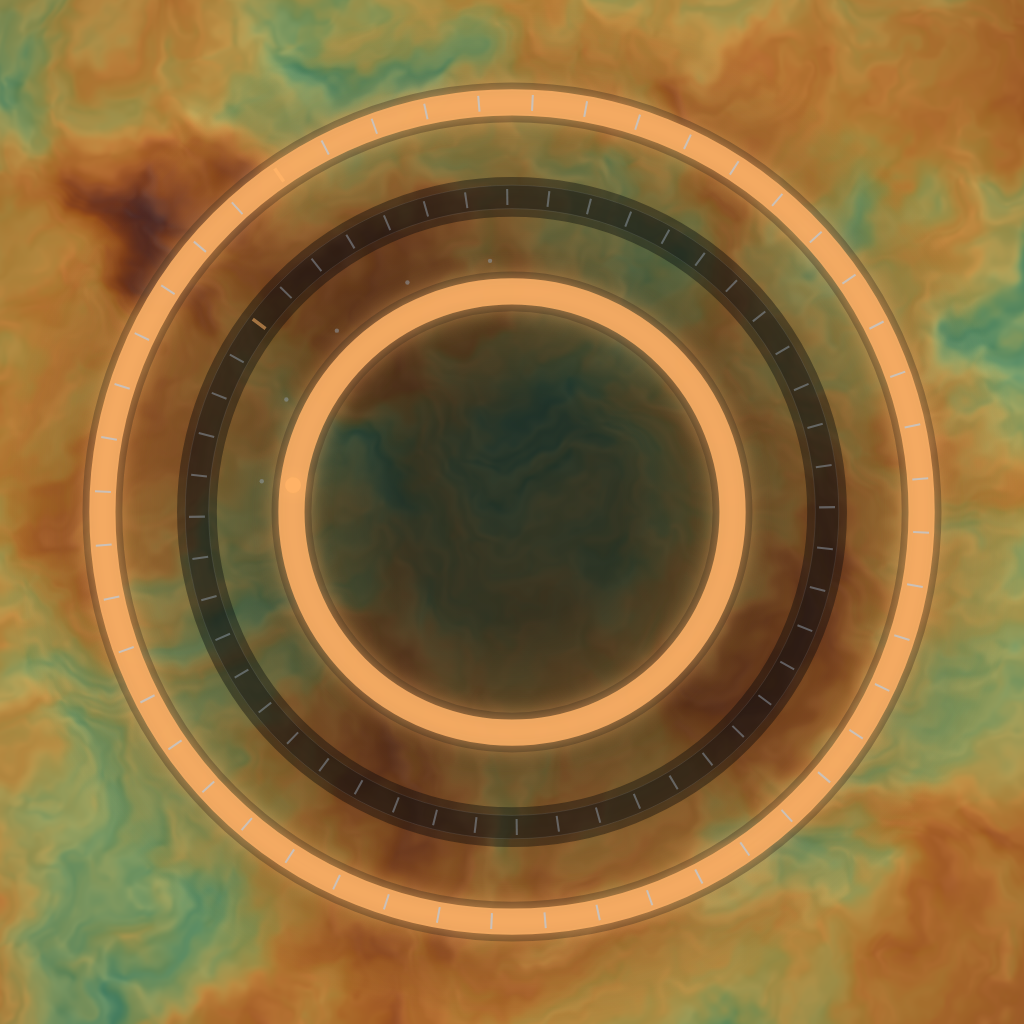
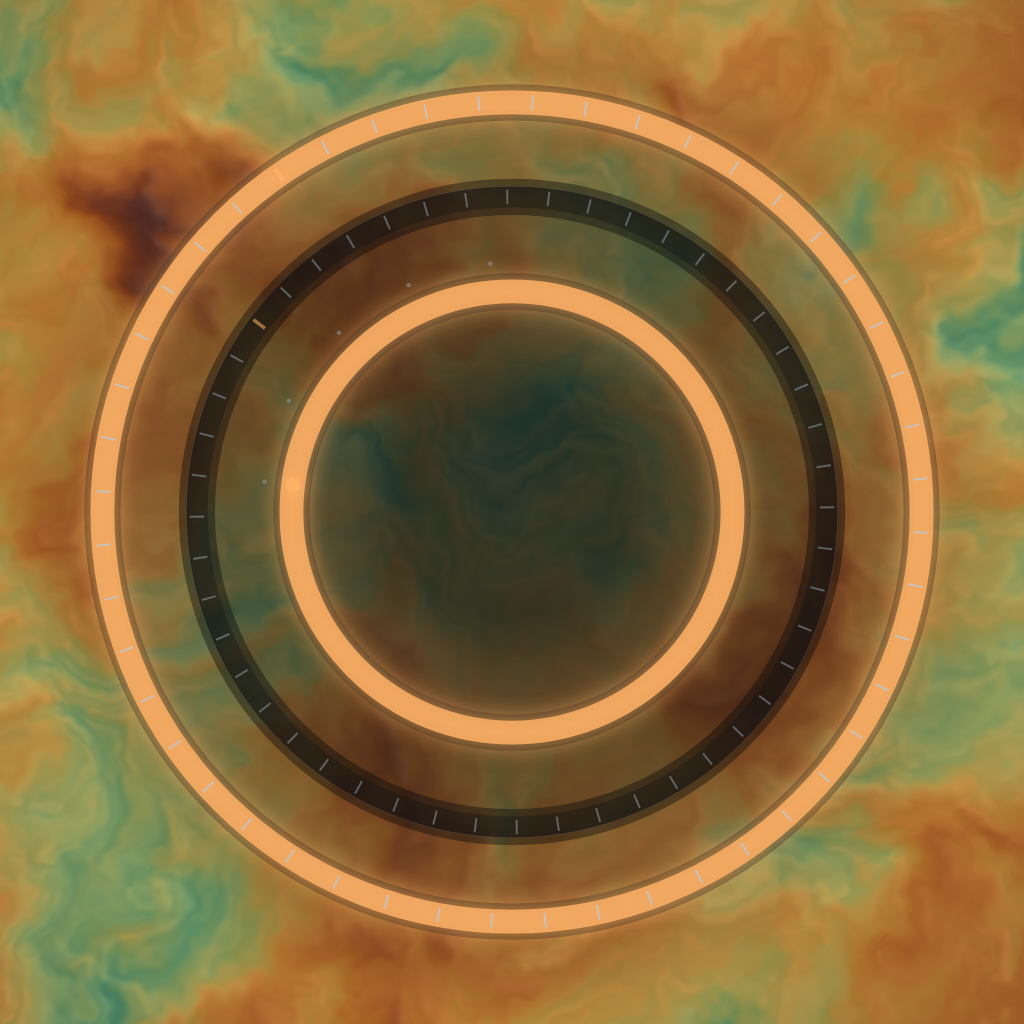
Swipe to change aesthetic, temp mode labels, bigger arcs, drawn hit zones
Horizontal background swipe steps aesthetics (left = next, wraps);
dot strip stays as the visible state. TEMP aesthetic.mode label under
the dots for per-mode feedback. Radius band now 0.65-1.25 (default
0.95, storage key v4). Each dial's whole hit band is drawn: gradient
deepens toward the arc, fades inward, inner hairline removed; glow
tints the full zone.

diff --git a/js/dials.js b/js/dials.js
@@ -69,7 +69,7 @@ export class DialCluster {
 
   radius(i) { return this.rB * this.relRadii[i]; }
   ringWidth() {
-    const w = clamp(this.rB * 0.055, 10, 18);
+    const w = clamp(this.rB * 0.05, 12, 22);
     return this.bare ? w * 1.35 : w;
   }
   // Fixed-pixel details (tick strokes, blur radii) scale with cluster size so
@@ -157,9 +157,46 @@ export class DialCluster {
     ctx.arc(x, y, scrimR, 0, TAU);
     ctx.fill();
 
+    this.drawZone(ctx, 0, this.a.glow);
+    this.drawZone(ctx, 1, this.b.glow);
+    this.drawZone(ctx, 2, this.c.glow);
     this.drawContinuousRing(ctx, 0, this.a);
     this.drawContinuousRing(ctx, 1, this.b);
     this.drawSelectorRing(ctx);
+  }
+
+  // The whole hit band is drawn, not just the arc: a transparent gradient
+  // deepens toward the arc at the band's outer edge and fades to nothing at
+  // the inner boundary, so the touch area visibly belongs to the dial.
+  drawZone(ctx, i, glow) {
+    const { x, y } = this.pivot;
+    const w = this.ringWidth();
+    const rOut = this.radius(i) + w / 2;
+    const rIn = i < 2
+      ? this.radius(i + 1) + w / 2
+      : Math.max(rOut - (this.radius(1) - this.radius(2)), rOut * 0.3);
+
+    const g = ctx.createRadialGradient(x, y, rIn, x, y, rOut);
+    g.addColorStop(0, 'rgba(10,13,16,0)');
+    g.addColorStop(0.7, 'rgba(10,13,16,0.16)');
+    g.addColorStop(1, 'rgba(10,13,16,0.34)');
+    ctx.beginPath();
+    ctx.arc(x, y, rOut, 0, TAU);
+    ctx.arc(x, y, rIn, 0, TAU, true);
+    ctx.fillStyle = g;
+    ctx.fill();
+
+    if (glow > 0.02) {
+      const ga = ctx.createRadialGradient(x, y, rIn, x, y, rOut);
+      ga.addColorStop(0, this.col(0));
+      ga.addColorStop(0.7, this.col(0.10 * glow));
+      ga.addColorStop(1, this.col(0.22 * glow));
+      ctx.beginPath();
+      ctx.arc(x, y, rOut, 0, TAU);
+      ctx.arc(x, y, rIn, 0, TAU, true);
+      ctx.fillStyle = ga;
+      ctx.fill();
+    }
   }
 
   // Translucent glass bands: the art reads through them. Shape is carried by
@@ -179,13 +216,13 @@ export class DialCluster {
     ctx.strokeStyle = glow > 0.02 ? COL.bandLit : COL.band;
     ctx.stroke();
 
+    // Outer edge hairline only — the inner boundary stays open so the band
+    // gradient reads as part of the dial, not a separate stripe.
     ctx.lineWidth = 1;
     ctx.strokeStyle = COL.edge;
-    for (const er of [r - w / 2, r + w / 2]) {
-      ctx.beginPath();
-      ctx.arc(x, y, er, 0, TAU);
-      ctx.stroke();
-    }
+    ctx.beginPath();
+    ctx.arc(x, y, r + w / 2, 0, TAU);
+    ctx.stroke();
 
     if (glow > 0.02) {
       ctx.save();

diff --git a/js/main.js b/js/main.js
@@ -2,8 +2,8 @@ import { DialCluster } from './dials.js';
 import { ArtGen } from './gen.js';
 import { AESTHETICS } from './aesthetics.js';
 
-// v3: radius band changed (0.52–0.95); old stored reaches would mask it.
-const STORE_KEY = 'fidget-synth.pivot.v3';
+// v4: radius band changed again (0.65–1.25); old stored reaches would mask it.
+const STORE_KEY = 'fidget-synth.pivot.v4';
 const LONGPRESS_MS = 450;
 const MOVE_CANCEL_PX = 12;
 
@@ -76,7 +76,7 @@ function cornerPivot(handed) {
 // Middle-arc radius limits, as fractions of the short screen dimension.
 function clampRB(r) {
   const m = Math.min(W, H);
-  return Math.min(0.95 * m, Math.max(0.52 * m, r));
+  return Math.min(1.25 * m, Math.max(0.65 * m, r));
 }
 
 function persistPivot(rB = cluster.rB) {
@@ -125,7 +125,7 @@ function resize() {
   cluster.pivot = cornerPivot(cluster.handed);
   cluster.rB = stored
     ? clampRB(stored.rBn * Math.min(W, H))
-    : clampRB(Math.min(W, H) * 0.75);
+    : clampRB(Math.min(W, H) * 0.95);
 }
 
 if (POSTER != null || BARE) {
@@ -154,6 +154,17 @@ function selectorDots() {
   }
   return dots;
 }
+// TEMP: aesthetic.mode label (e.g. "2.3") so per-mode feedback can name what
+// it's about. Remove once the visual set is settled — the app has no words.
+function drawDebugLabel() {
+  const dots = selectorDots();
+  const x0 = Math.min(dots[0].x, dots[dots.length - 1].x);
+  ctx.font = '11px ui-monospace, Menlo, monospace';
+  ctx.textAlign = 'left';
+  ctx.fillStyle = 'rgba(170,180,190,0.55)';
+  ctx.fillText((aesIndex + 1) + '.' + (cluster.mode() + 1), x0 - 4, SELECTOR_Y + 26);
+}
+
 function drawSelector() {
   for (const d of selectorDots()) {
     const act = d.i === aesIndex;
@@ -325,6 +336,14 @@ function onUp(e) {
     cluster.liftT = 0;
   } else if (active.type === 'bg') {
     clearTimeout(active.timer);
+    // Horizontal background swipe steps through aesthetics (spec §4):
+    // swipe left = next, right = previous. Dot strip shows where you are.
+    const dx = e.clientX - active.x;
+    const dy = e.clientY - active.y;
+    if (Math.abs(dx) > 55 && Math.abs(dx) > 2 * Math.abs(dy)) {
+      const n = AESTHETICS.length;
+      setAesthetic((aesIndex + (dx < 0 ? 1 : n - 1)) % n, true);
+    }
   }
   active = null;
 }
@@ -356,7 +375,10 @@ function frame(now) {
   ctx.setTransform(DPR, 0, 0, DPR, 0, 0);
   ctx.clearRect(0, 0, W, H);
   cluster.render(ctx);
-  if (selectorVisible()) drawSelector();
+  if (selectorVisible()) {
+    drawSelector();
+    drawDebugLabel();
+  }
 
   requestAnimationFrame(frame);
 }

diff --git a/fidget-synth-spec.md b/fidget-synth-spec.md
@@ -72,7 +72,9 @@ Feel-critical enough to pin down here rather than leave to the build:
 - **Hit zones are bands, not strokes.** Each dial's touch area runs from its
   own outside edge inward to the next arc's outside edge; the innermost dial
   takes everything inside its edge. Landing a thumb on the drawn arc itself
-  must never be required.
+  must never be required — and the zone is *drawn*: a transparent gradient
+  fills the whole band (deepest at the arc, fading inward, no inner border)
+  so the touch area visibly belongs to the dial.
 - **Delta tracking, not absolute.** Touching a ring never jumps the value to
   the touch angle; the drag applies angular delta from wherever the finger
   landed. Otherwise every touch is a glitch.
@@ -120,7 +122,7 @@ Two details that matter:
 - The settle animation should be quick and confident (~250ms, eased), not a
   drifting float. It should read as the interface *snapping to your hand*, which
   is a nice moment in itself.
-- The arc radius clamps to a sensible band (roughly 0.52–0.95 of the short
+- The arc radius clamps to a sensible band (roughly 0.65–1.25 of the short
   screen dimension) so a touch very near or very far from the corner can't
   produce unusable geometry. The arcs running off-screen is the design, not a
   problem to clamp away.
@@ -202,8 +204,9 @@ rendering strategy, not just color, and each defines its own Dial C mode set
 
 A strip of small dots in the top corner *opposite* the thumb (top-left for a
 right-hander) — one per aesthetic, the active one glowing in that aesthetic's
-accent color. Tap a dot to switch. Wordless, one tap, and far enough from the
-arcs that it can't be hit by accident. The choice persists across launches.
+accent color. Tap a dot to switch, or **swipe horizontally on empty
+background** to step through them (left = next). Wordless either way; the dots
+are the visible state. The choice persists across launches.
 
 Kept architecturally decoupled as originally required: the strip, the ?aes=
 dev override, and persistence all route through one setAesthetic() call, so
